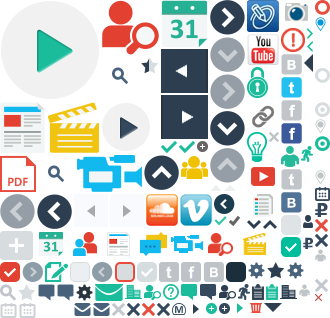
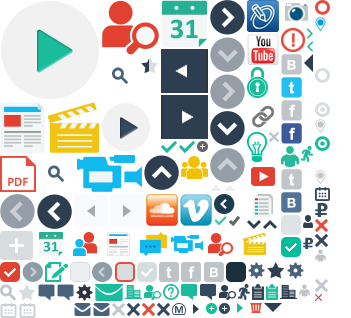
Кнопки фейсбук и ВК refs #7490
refs #7490

diff --git a/css/style.css b/css/style.css
@@ -2047,8 +2047,8 @@ a:hover {
   height: 17px;
 }
 .ico_vk-white {
-  background-image: url(../img/icons/vk_icon.png);
-  background-position: 0px 0px;
+  background-image: url(../img/icons.png);
+  background-position: -330px 0px;
   width: 21px;
   height: 14px;
   margin-right: 10px;
@@ -2659,7 +2659,7 @@ a:hover {
   font-size: 14px;
   font-weight: normal;
   text-decoration: none;
-  padding: 7px 18px 6px;
+  padding: 7px 0px 6px;
   -webkit-border-radius: 5px;
   -webkit-background-clip: padding-box;
   -moz-border-radius: 5px;
@@ -2669,12 +2669,14 @@ a:hover {
   color: #fff;
   background: #2f4b93;
   border: 2px solid #2f4b93;
+  width: 192px;
+  text-align: center;
 }
 .btn_vk-blue {
   font-size: 14px;
   font-weight: normal;
   text-decoration: none;
-  padding: 7px 13px 6px;
+  padding: 7px 0px 6px;
   -webkit-border-radius: 5px;
   -webkit-background-clip: padding-box;
   -moz-border-radius: 5px;
@@ -2685,6 +2687,8 @@ a:hover {
   background: #4c75a3;
   border: 2px solid #4c75a3;
   margin-top: 10px !important;
+  width: 192px;
+  text-align: center;
 }
 .btn_vk-blue:hover {
   background: #2b587a;
